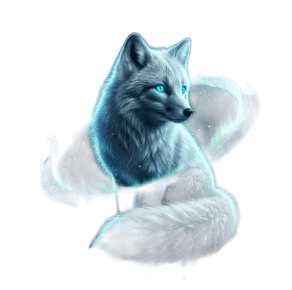
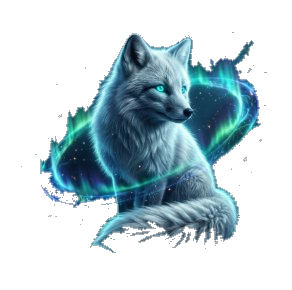
style(home): remove badges from fox showcase card and refine transparent silhouette

Changed region(s): [[0.1233, 0.0931, 0.8938, 0.931], [0.8322, 0.5276, 0.863, 0.5586], [0.524, 0.2793, 0.5548, 0.3103]]

diff --git a/app/page.tsx b/app/page.tsx
@@ -9,7 +9,6 @@ import {
   ArrowRight,
   Layers,
   ShieldCheck,
-  TrendingUp,
   Sparkles,
 } from "lucide-react";
 import AnimatedFox3D from "@/components/AnimatedFox3D";
@@ -99,18 +98,6 @@ export default function HomePage() {
               {/* Internal Aurora Glaze */}
               <div className="absolute -top-16 -left-16 w-48 h-48 bg-sky-500/20 blur-[70px] rounded-full pointer-events-none" />
               <div className="absolute -bottom-16 -right-16 w-48 h-48 bg-cyan-400/20 blur-[70px] rounded-full pointer-events-none" />
-
-              {/* Top Floating Glass Badge */}
-              <div className="absolute top-5 left-5 z-20 flex items-center gap-2 px-3.5 py-1.5 rounded-2xl bg-white/10 border border-white/15 backdrop-blur-md text-[11px] font-bold text-white shadow-lg">
-                <TrendingUp className="w-3.5 h-3.5 text-emerald-400" />
-                <span>Real-Time Tracker</span>
-              </div>
-
-              {/* Bottom Floating Glass Badge */}
-              <div className="absolute bottom-5 right-5 z-20 flex items-center gap-2 px-3.5 py-1.5 rounded-2xl bg-white/10 border border-white/15 backdrop-blur-md text-[11px] font-bold text-white shadow-lg">
-                <Star className="w-3.5 h-3.5 text-amber-300 fill-amber-300" />
-                <span>Aurora Fox Edition</span>
-              </div>
 
               {/* 3D Interactive Fox */}
               <AnimatedFox3D size="xl" interactive={true} />
